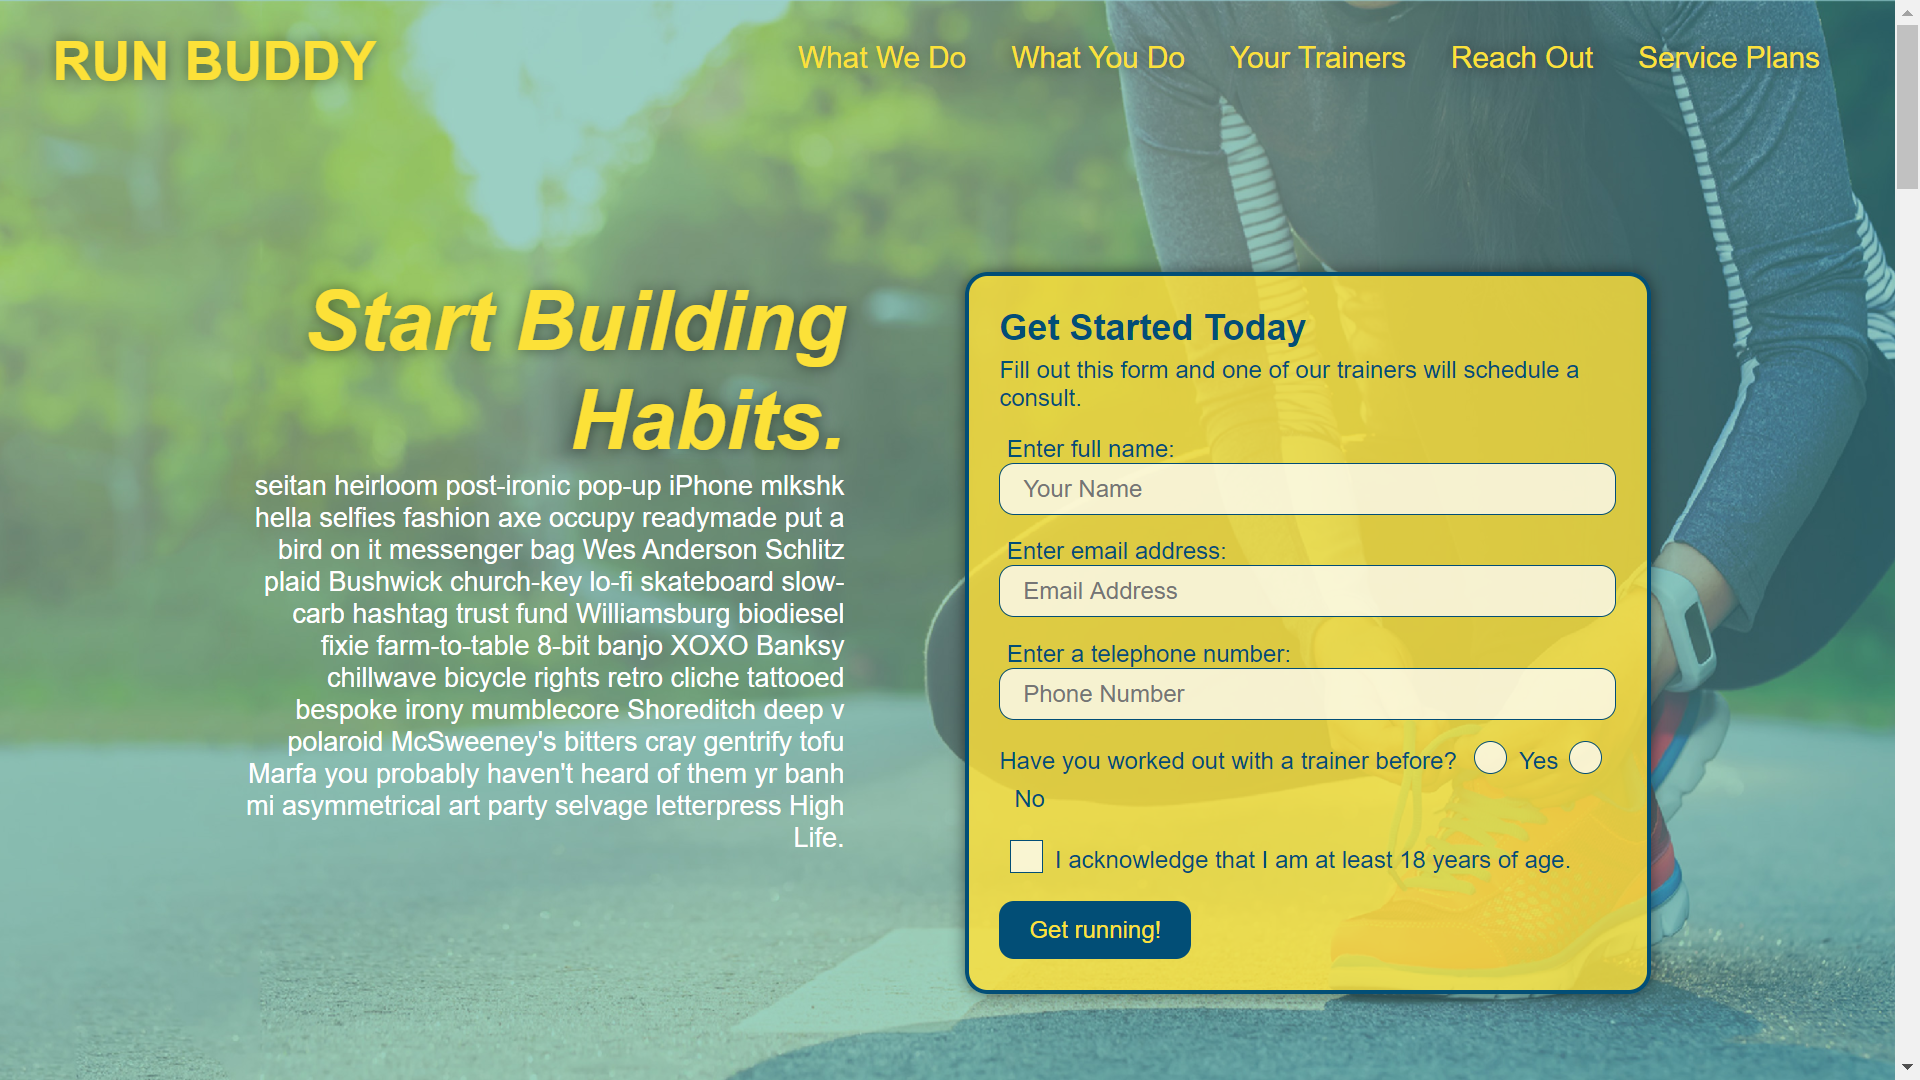
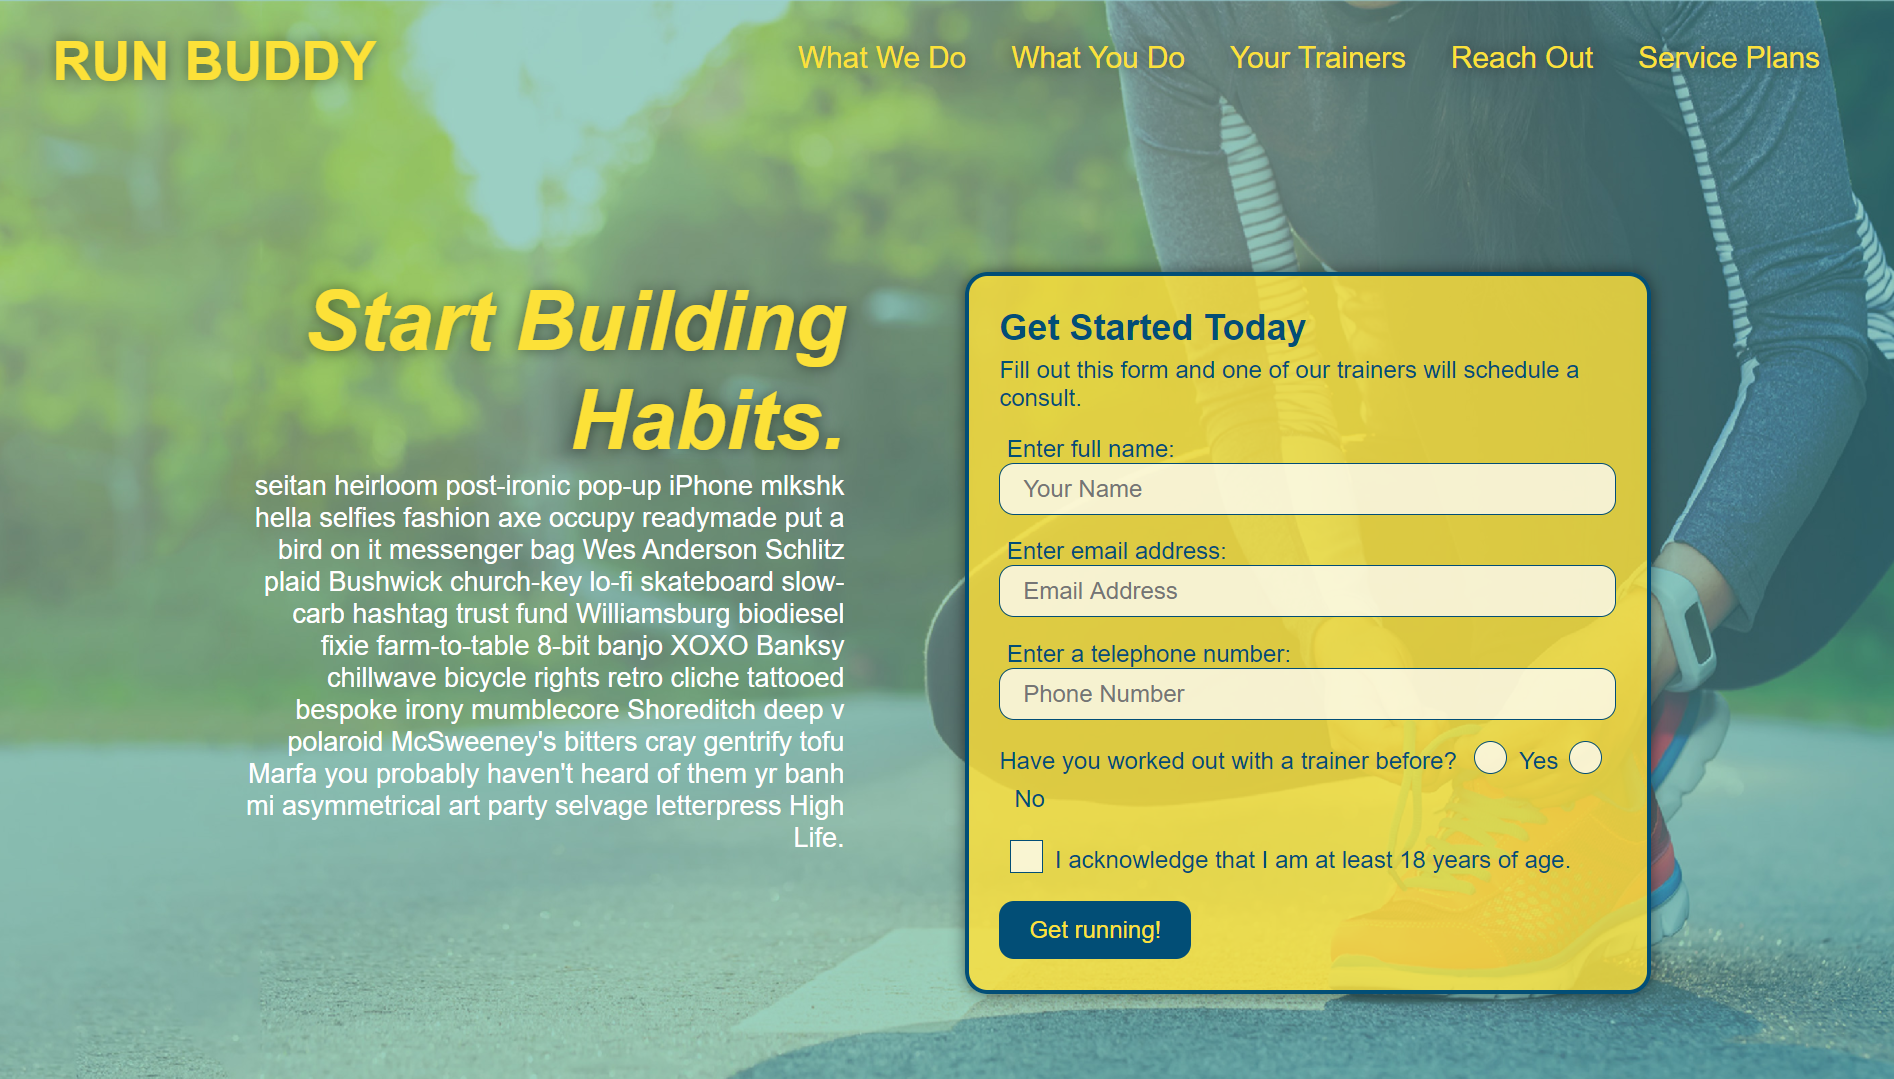
tweaked color schemel and moved contact info to in line

diff --git a/assets/style.css b/assets/style.css
@@ -14,7 +14,7 @@ body {
 
 header {
   padding: 20px 35px;
-  background-color: #393b3a;
+  background-image: url('../assets/images/darkgrey.jpg');
   display: flex;
   justify-content: space-between;
   flex-wrap: wrap;
@@ -99,7 +99,7 @@ section {
 .section-title {
   font-size: 48px;
   border: none;
-  color:#3e423f;
+  color:#fff;
   padding-bottom: 20px;
   text-align: left;
   margin: 0 auto 35px auto;
@@ -116,19 +116,27 @@ section {
 
 /* about me styling */
 .intro {
-  background-image: url('../assets/images/greytexture.jpg');
+  background-image: url('../assets/images/darkgrey.jpg');
 }
 .intro p {
   text-align: left;
   line-height: 1.5;
-  color: #3e423f;
+  color: #fff;
   width: 80%;
   margin: 0 auto;
   font-size: 20px;
 }
 
 /* my work styling */
-
+.section-title2 {
+  font-size: 48px;
+  border: none;
+  color:#3e423f;
+  padding-bottom: 20px;
+  text-align: left;
+  margin: 0 auto 35px auto;
+  width: 50%;
+}
 .projects {
   width: 100%;
   margin: 0 auto;
@@ -170,12 +178,11 @@ section {
 /* contact me styling */
 
 .contact {
-  background-image: url('../assets/images/greytexture.jpg');
-  height: 
+  background-image: url('../assets/images/darkgrey.jpg');
 }
 
 .contact h2 {
-  color: #3e423f;
+  color: #fff;
 }
 
 .contact-info {
@@ -189,40 +196,25 @@ section {
   margin: 15px;
 }
 
-.contact-info iframe {
-  height: 300px;
-}
-
-.contact-info div {
-  color: #3e423f;
-}
-
-.contact-info h3 {
-  color:#3e423f;
-  font-size: 32px;
-}
-
-.contact-info p {
+.contact-info p1, p2, p3, p4 {
   margin: 20px 0;
   line-height: 1.5;
-  font-size: 26px;
-  font-style: normal;
+  font-size: 36px;
+  font-style: bold;
   text-align: center;
+
 }
 
 .contact-info a {
-  color: #3e423f;
+  color: #fff;
 }
+
+p1  { left: 0%; position: relative; }
+p2 { left: 2%; position: relative; }
+p3 { left: 4%; position: relative; }
+p4  { left: %; position: relative; }
 
 /* general styling */
-.text-left {
-  text-align: left;
-}
-
-.text-right {
-  text-align: right;
-}
-
 .flex-row {
   display: flex;
 }
@@ -261,41 +253,14 @@ section {
     width: 80%;
   }
   
-  .trainer {
-    flex: 0 70%;
-  }
-  
   .contact-info iframe{
     flex: 1 100%;
   }
-}
 
 /* media queries styling for tablets and smaller */
 @media screen and (max-width: 768px) {
   section {
     padding: 30px 15px;
-  }
-
-  .step h3 {
-    flex: 1 100%;
-    text-align: center;
-  }
-
-  .step-info {
-    flex: 2 100%;
-    text-align: center;
-    justify-content: center;
-  }
-
-  .step-img {
-    flex: 0 32%;
-    margin-right: 0;
-    margin-top: 15px;
-    margin-bottom: 15px;
-  }
-
-  .step-text {
-    flex: 100%;  
   }
   
 

diff --git a/index.html b/index.html
@@ -62,7 +62,7 @@
     <!-- "my projects" -->
     <section id="my-projects">
       <div class="flex-row">
-        <h2 class="section-title primary-border">
+        <h2 class="section-title2 primary-border">
           some of my work...
         </h2>
       </div>
@@ -112,18 +112,16 @@
         </h2>
       </div>
       <div class="contact-info">
-          <p>
-            Email: <a href="mailto:corycneel@gmail.com">corycneel@gmail.com</a>
-            </br>
-            </br>
-            <a href="https://github.com/cocobeware83">GITHUB</a>
-          </br>
-           <a href= "https://www.linkedin.com/in/cory-neel-0bb1a01b9/">LinkedIn</a>
-          </br>
-           <a href="https://www.facebook.com/cory.neel">Facebook</a>
-           </br>
-           
-          </p>
+          <p1>
+            <a href="mailto:corycneel@gmail.com">corycneel@gmail.com</a>
+            </p1>
+            <p2>
+              <a href="https://github.com/cocobeware83">GITHUB</a>
+              </p2>
+              <p3> <a href= "https://www.linkedin.com/in/cory-neel-0bb1a01b9/">LinkedIn</a>
+              </p3>
+              <p4> <a href="https://www.facebook.com/cory.neel">Facebook</a>
+              </p4>  
         </div>
   </body>
 </html>
